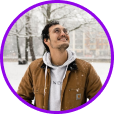
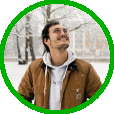
fix: [ind] Amend to light green theme

Changed region(s): [[0.0, 0.0, 1.0, 1.0]]

diff --git a/ind-static-v2/src/pages/AccountPage.vue b/ind-static-v2/src/pages/AccountPage.vue
@@ -107,7 +107,7 @@
               @click="startRefresh"
             >
               <template v-slot:loading>
-                <q-spinner class="on-left" style="color: #ae6def" />
+                <q-spinner class="on-left" style="color: #00AE00" />
                 Updating...
               </template>
             </q-btn>
@@ -270,101 +270,98 @@
         dense
         rounded
         icon="close"
-        class="bg-yellow text-black popout-close"
+        class="text-black popout-close"
         @click="openChangePasswordDialog()"
         v-close-popup
       />
       <div class="popout-dialog-container">
         <div class="txt-title">Change Password</div>
+          <div class="pc-form">
+            <InputRowGrid>
+            <template #fields>
+              <InputField :label="'Password'">
+                <template #input>
+                  <q-input
+                    outlined
+                    clearable
+                    placeholder="Enter Current Password"
+                    v-model="updatePwdInfo.oldPassword"
+                    ref="oldPasswordRef"
+                    hide-bottom-space
+                    :type="isPwd ? 'password' : 'text'"
+                    :rules="[(val) => (val && val.length > 0) || 'Please insert old password']"
+                  >
+                    <template v-slot:append>
+                      <q-icon
+                        :name="isPwd ? 'visibility_off' : 'visibility'"
+                        class="cursor-pointer"
+                        @click="isPwd = !isPwd"
+                      />
+                    </template>
+                  </q-input>
+                </template>
+              </InputField>
 
-        <div class="pc-form">
-          <div class="pc-form-item">
-            <div class="pc-form-label">Password</div>
-            <div class="pc-form-input">
-              <q-input
-                filled
-                dense
-                clearable
-                placeholder="Enter Current Password"
-                v-model="updatePwdInfo.oldPassword"
-                ref="oldPasswordRef"
-                hide-bottom-space
-                :type="isPwd ? 'password' : 'text'"
-                :rules="[(val) => (val && val.length > 0) || 'Please insert old password']"
-              >
-                <template v-slot:append>
-                  <q-icon
-                    color="yellow-7"
-                    :name="isPwd ? 'visibility_off' : 'visibility'"
-                    class="cursor-pointer"
-                    @click="isPwd = !isPwd"
-                  />
+              <InputField :label="'New Password'">
+                <template #input>
+                  <q-input
+                    outlined
+                    clearable
+                    placeholder="Enter New Password"
+                    v-model="updatePwdInfo.password"
+                    ref="passwordRef"
+                    hide-bottom-space
+                    :type="isPwd ? 'password' : 'text'"
+                    :rules="[
+                      (val) => (val && val.length > 0) || 'Please insert new password',
+                      (val) =>
+                        (val.length >= 6 && val.length <= 11) || 'The characters of new password must be between 6 and 11',
+                      () => isAlphanumeric(updatePwdInfo.password, 'New password')
+                    ]"
+                  >
+                    <template v-slot:append>
+                      <q-icon
+                        :name="isPwd ? 'visibility_off' : 'visibility'"
+                        class="cursor-pointer"
+                        @click="isPwd = !isPwd"
+                      />
+                    </template>
+                  </q-input>
                 </template>
-              </q-input>
-            </div>
-          </div>
-          <div class="pc-form-item">
-            <div class="pc-form-label">New Password</div>
-            <div class="pc-form-input">
-              <q-input
-                filled
-                dense
-                clearable
-                placeholder="Enter New Password"
-                v-model="updatePwdInfo.password"
-                ref="passwordRef"
-                hide-bottom-space
-                :type="isPwd ? 'password' : 'text'"
-                :rules="[
-                  (val) => (val && val.length > 0) || 'Please insert new password',
-                  (val) =>
-                    (val.length >= 6 && val.length <= 11) || 'The characters of new password must be between 6 and 11',
-                  () => isAlphanumeric(updatePwdInfo.password, 'New password')
-                ]"
-              >
-                <template v-slot:append>
-                  <q-icon
-                    color="yellow-7"
-                    :name="isPwd ? 'visibility_off' : 'visibility'"
-                    class="cursor-pointer"
-                    @click="isPwd = !isPwd"
-                  />
+              </InputField>
+
+              <InputField :label="'Confirm New Password'">
+                <template #input>
+                  <q-input
+                    outlined
+                    clearable
+                    placeholder="Enter Confirm New Password"
+                    v-model="updatePwdInfo.confirmNewPwd"
+                    ref="confirmPasswordRef"
+                    hide-bottom-space
+                    :type="isPwd ? 'password' : 'text'"
+                    :rules="[
+                      (val) => (val && val.length > 0) || 'Please insert confirm new password',
+                      (val) => val === updatePwdInfo.password || 'Confirm password does not match with new password'
+                    ]"
+                  >
+                    <template v-slot:append>
+                      <q-icon
+                        :name="isPwd ? 'visibility_off' : 'visibility'"
+                        class="cursor-pointer"
+                        @click="isPwd = !isPwd"
+                      />
+                    </template>
+                  </q-input>
                 </template>
-              </q-input>
-            </div>
-          </div>
-          <div class="pc-form-item">
-            <div class="pc-form-label">Confirm New Password</div>
-            <div class="pc-form-input">
-              <q-input
-                filled
-                dense
-                clearable
-                placeholder="Enter Confirm New Password"
-                v-model="updatePwdInfo.confirmNewPwd"
-                ref="confirmPasswordRef"
-                hide-bottom-space
-                :type="isPwd ? 'password' : 'text'"
-                :rules="[
-                  (val) => (val && val.length > 0) || 'Please insert confirm new password',
-                  (val) => val === updatePwdInfo.password || 'Confirm password does not match with new password'
-                ]"
-              >
-                <template v-slot:append>
-                  <q-icon
-                    color="yellow-7"
-                    :name="isPwd ? 'visibility_off' : 'visibility'"
-                    class="cursor-pointer"
-                    @click="isPwd = !isPwd"
-                  />
-                </template>
-              </q-input>
-            </div>
-          </div>
+              </InputField>
+            </template>
+          </InputRowGrid>
         </div>
 
         <div class="q-mt-md q-pl-lg q-pr-lg">
-          <q-btn rounded flat no-caps class="btn-purple-pattern" @click="submitUpdatePwd">Confirm</q-btn>
+          <PrimaryButton :label="'Confirm'" :isSmall="true" :onClick="submitUpdatePwd"/>
+          <!-- <q-btn rounded flat no-caps class="btn-purple-pattern" @click="submitUpdatePwd">Confirm</q-btn> -->
         </div>
       </div>
     </div>
@@ -1384,20 +1381,22 @@ const openConfirmSignOutDialog = () => {
 }
 
 .btn-cancel {
-  background: #ffffff20;
+  background: radial-gradient(68.92% 68.92% at 50% 50%, #1D341D 0%, #466A45 100%);
+  border: 1px solid #5D8956;
   font-weight: 700;
-  color: #dcdcdc;
+  color: #fff;
   border: 1px solid #ffffff80;
   border-radius: 8px;
   width: 140px;
   height: 42px;
 }
 .btn-confirm {
-  background: linear-gradient(187.94deg, rgba(255, 255, 255, 0.8) 5.77%, #8eb5ff 93.57%);
+  background: radial-gradient(68.92% 68.92% at 50% 50%, #00550E 0%, #57CD69 100%);
+  border: 1px solid #5D8956;
   font-weight: 700;
   width: 140px;
   height: 42px;
-  color: #5c46e7;
+  color: #fff;
   border-radius: 8px;
 }
 </style>

diff --git a/ind-static-v2/src/components/modal/GameModal.vue b/ind-static-v2/src/components/modal/GameModal.vue
@@ -25,13 +25,13 @@
           <div v-if="!drawerVisible" class="wallet-container" @click="goToDeposit()">
             Add Cash &nbsp;
             <q-btn dense rounded class="wallet-btn">
-              <img src="../../assets/images/index/icon-wallet.png" />
+              <img src="../../assets/images/account/personal-svg.svg" />
             </q-btn>
           </div>
         </div>
 
         <div class="loader-container">
-          <div><q-spinner color="yellow" size="10em" :thickness="10" /></div>
+          <div><q-spinner color="green" size="10em" :thickness="10" /></div>
           <div>Loading... Please wait...</div>
         </div>
 
@@ -407,7 +407,7 @@ defineExpose({
 
 <style lang="scss">
 .gameDialog {
-  background-color: #4b027c;
+  // background-color: #4b027c;
 }
 
 #iphone-tips-close-button {
@@ -840,16 +840,18 @@ defineExpose({
   }
 
   .btn-cancel {
-    background: rgba(21, 0, 37, 0.5);
+    background: radial-gradient(68.92% 68.92% at 50% 50%, #1D341D 0%, #466A45 100%);
+    border: 1px solid #5D8956;
     font-weight: 700;
     color: #ffffff;
     border-radius: 8px;
   }
 
   .btn-confirm {
-    background: linear-gradient(180deg, #ffcd5c 0%, #fea800 100%);
+    background: radial-gradient(68.92% 68.92% at 50% 50%, #00550E 0%, #57CD69 100%);
+    border: 1px solid #5D8956;
     font-weight: 700;
-    color: #150025;
+    color: #fff;
     border-radius: 8px;
   }
 }

diff --git a/ind-static-v2/src/pages/SettingsPage.vue b/ind-static-v2/src/pages/SettingsPage.vue
@@ -393,20 +393,21 @@ const logout = () => {
 }
 
 .btn-cancel {
-  background: #ffffff20;
+  background: radial-gradient(68.92% 68.92% at 50% 50%, #1D341D 0%, #466A45 100%);
   font-weight: 700;
-  color: #dcdcdc;
-  border: 1px solid #ffffff80;
+  color: #fff;
+  border: 1px solid #5D8956;
   border-radius: 8px;
   width: 140px;
   height: 42px;
 }
 .btn-confirm {
-  background: linear-gradient(187.94deg, rgba(255, 255, 255, 0.8) 5.77%, #8eb5ff 93.57%);
+  background: radial-gradient(68.92% 68.92% at 50% 50%, #00550E 0%, #57CD69 100%);
+  border: 1px solid #5D8956;
   font-weight: 700;
   width: 140px;
   height: 42px;
-  color: #5c46e7;
+  color: #fff;
   border-radius: 8px;
 }
 </style>

diff --git a/ind-static-v2/src/components/ProfileSummary.vue b/ind-static-v2/src/components/ProfileSummary.vue
@@ -81,7 +81,7 @@
             </div>
           </template>
 
-          <q-list style="background: #303954" dense unelevated flat class="dropdown-list">
+          <q-list style="background: #19242E" dense unelevated flat class="dropdown-list">
             <q-item clickable v-close-popup @click="onVipClick">
               <q-item-section avatar>
                 <q-avatar icon="diamond" />
@@ -564,7 +564,7 @@ onMounted(() => {
     padding-top: 3px;
     padding-bottom: 4px;
     z-index: 3;
-    color: #334ad6;
+    color: #00AE00;
     font-weight: 700;
     font-style: italic;
   }

diff --git a/ind-static-v2/src/pages/HomePage.vue b/ind-static-v2/src/pages/HomePage.vue
@@ -842,7 +842,7 @@
           <template v-if="isGameLoading">
             <div class="loader-container">
               <div>
-                <q-spinner color="yellow" size="10em" :thickness="10" />
+                <q-spinner color="green" size="10em" :thickness="10" />
               </div>
               <div>Loading... Please wait...</div>
             </div>
@@ -2393,6 +2393,7 @@ onMounted(() => {
   height: 76px;
   background: url("../assets/images/index/icon-cs.png") no-repeat center center;
   background-size: contain;
+  filter: hue-rotate(200deg);
 }
 
 .home-divider {

diff --git a/ind-static-v2/src/css/app.scss b/ind-static-v2/src/css/app.scss
@@ -452,7 +452,7 @@ body.body--dark .q-footer {
   color: rgba(255, 255, 255, 0.5);
 
   .wallet-btn {
-    background: rgba(255, 255, 255, 0.7);
+    background: #00ae0033;
     padding: 8px;
 
     img {
@@ -588,7 +588,7 @@ body.body--dark .q-footer {
   }
 
   .popout-dialog-container {
-    background: linear-gradient(180deg, #8b36f8 0%, #334ad6 100%);
+    background: #19202D;
     background-position: top center;
     background-size: cover;
     background-repeat: no-repeat;

diff --git a/ind-static-v2/src/pages/PromoPage.vue b/ind-static-v2/src/pages/PromoPage.vue
@@ -729,7 +729,7 @@ export default defineComponent({
           overflow: hidden;
           // padding-top: 40px;
           border-radius: 17px;
-          background: #4f366c;
+          background: radial-gradient(68.92% 68.92% at 50% 50%, #1D341D 0%, #466A45 100%);
           box-shadow: 0px 7.5px 20px 0px #1411321a;
 
           img {

diff --git a/ind-static-v2/src/pages/LiveChatPage.vue b/ind-static-v2/src/pages/LiveChatPage.vue
@@ -7,7 +7,7 @@
     <!-- <div class="iFrameFull">
   </div> -->
     <div class="loader-container">
-      <q-spinner color="yellow" size="10em" :thickness="10" />
+      <q-spinner color="green" size="10em" :thickness="10" />
     </div>
   </q-page>
 </template>

diff --git a/ind-static-v2/src/components/ProfileProgressBanner.vue b/ind-static-v2/src/components/ProfileProgressBanner.vue
@@ -126,7 +126,7 @@ const profileImagePath = computed(() => {
           padding-top: 2px;
           padding-bottom: 4px;
           z-index: 3;
-          color: #334ad6;
+          color: #00AE00;
           font-weight: bold;
         }
       }

diff --git a/ind-static-v2/src/components/LoadingComponent.vue b/ind-static-v2/src/components/LoadingComponent.vue
@@ -13,7 +13,7 @@
   align-items: center;
   justify-content: center;
   .loading {
-    color: #fdd835;
+    color: #00AE00;
   }
 }
 </style>
